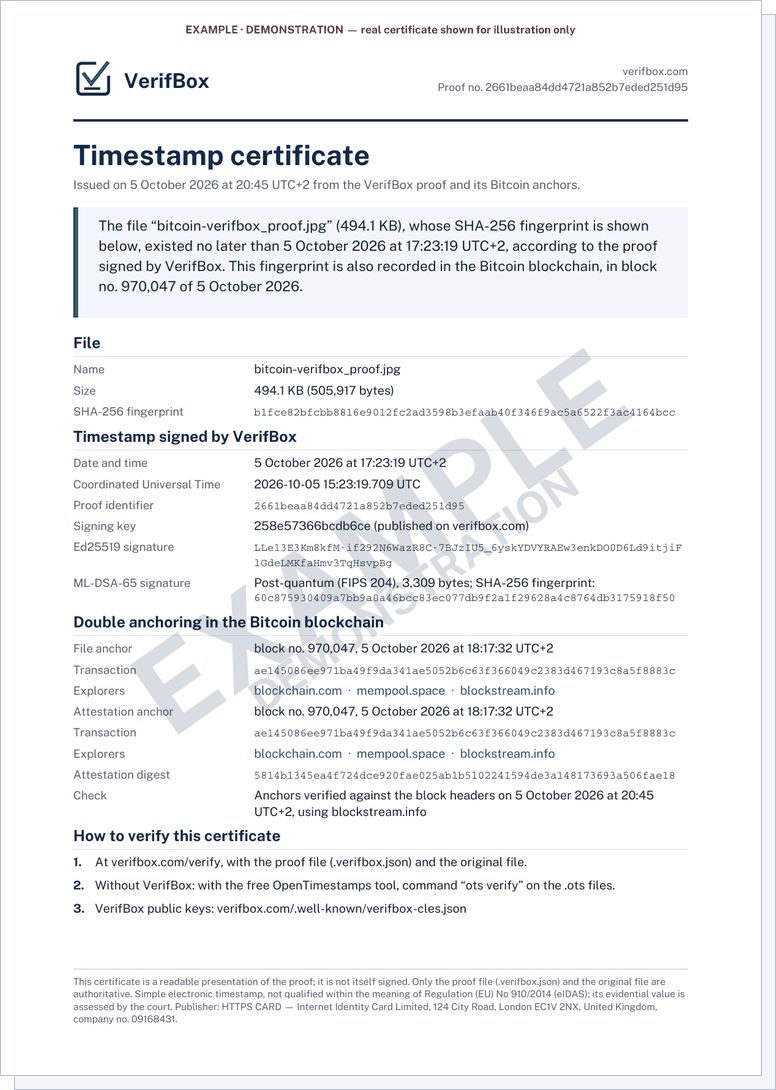
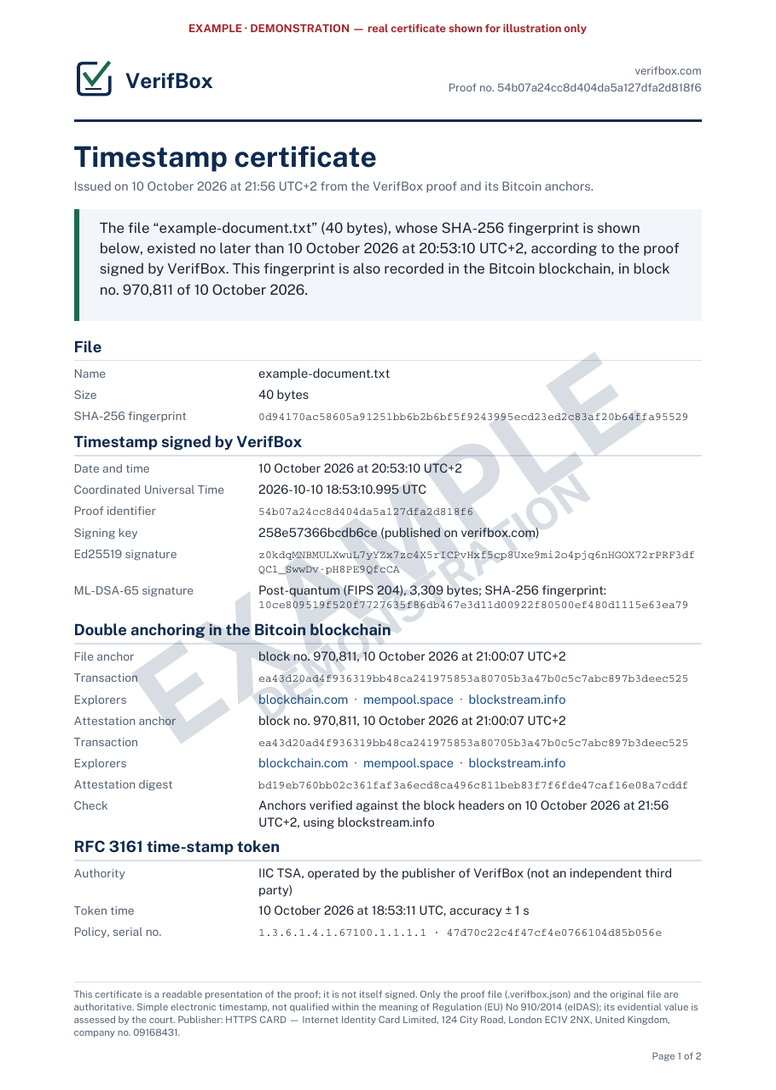
Add files via upload

diff --git a/demo-iic-tsa/README.md b/demo-iic-tsa/README.md
@@ -1,0 +1,51 @@
+# Public demonstration proof with the IIC TSA token
+
+A real VerifBox proof, issued by the production service on 10 October 2026 — the day the IIC TSA time-stamp token went live — with the double Bitcoin anchoring and the RFC 3161 token. This time the original file is published too (`document-exemple.txt`, 40 bytes of plain text), so every check, including the OpenSSL one, can be replayed in full. This proof is the one behind the example certificate shown on verifbox.com.
+
+| Item | Value |
+|---|---|
+| Proof identifier | `54b07a24cc8d404da5a127dfa2d818f6` |
+| Declared time (signed by VerifBox) | 2026-10-10 18:53:10.995 UTC |
+| Signing key | `258e57366bcdb6ce` |
[2 lines of base64/hex data omitted]
+| IIC TSA token | 2026-10-10 18:53:11 UTC, accuracy ± 1 s, policy `1.3.6.1.4.1.67100.1.1.1.1`, serial `47d70c22c4f47cf4e0766104d85b056e` |
+| Bitcoin block of both anchors | 970,811 (2026-10-10 19:00:07 UTC) |
[1 lines of base64/hex data omitted]
+
+IIC TSA is operated by the same company as VerifBox and is not an independent third party; it is not an eIDAS-qualified trust service.
+
+## Files
+
+- `document-exemple.txt`: the original file.
+- `preuve-54b07a24.verifbox.json`: the completed proof, with both anchors and the token.
+- `ancrage-fichier.ots`, `ancrage-attestation.ots`: the two OpenTimestamps anchors.
+- `jeton-iic-tsa.tsr`: the RFC 3161 time-stamp token, extracted from the proof.
+- `iic-tsa-root.pem`: the IIC TSA root certificate (`IIC TSA Root R1`, SHA-256 `86:52:E3:D1:3E:72:5F:7C:75:7C:FA:05:3D:64:13:60:AC:A4:43:CF:6C:09:D7:D6:DD:D4:4B:EA:85:1E:D3:B9`), a copy of the one published at https://verifbox.com/.well-known/iic-tsa.json.
+- `verification.txt`: the output of the independent verifier on this proof and file.
+
+## Replay the verification
+
+**1. Signatures, key, file, anchors and token, with the independent Python verifier:**
+
+```bash
+pip install cryptography dilithium-py
+python3 ../verifbox_verify.py preuve-54b07a24.verifbox.json document-exemple.txt
+```
+
+**2. Both anchors against the Bitcoin blockchain, with the official OpenTimestamps client:**
+
+```bash
+pip install opentimestamps-client
+ots verify -d 0d94170ac58605a91251bb6b2b6bf5f9243995ecd23ed2c83af20b64ffa95529 ancrage-fichier.ots
+ots verify -d bd19eb760bb02c361faf3a6ecd8ca496c811beb83f7f6fde47caf16e08a7cddf ancrage-attestation.ots
+```
+
+**3. The IIC TSA token, with OpenSSL alone:**
+
+```bash
+openssl ts -verify -data document-exemple.txt -in jeton-iic-tsa.tsr -CAfile iic-tsa-root.pem
+openssl ts -reply -in jeton-iic-tsa.tsr -text
+```
+
+The first command must print `Verification: OK`; the second shows the policy, the serial number, the time and the accuracy. Any change to `document-exemple.txt`, even one byte, makes both the proof and the token fail.

diff --git a/README.md b/README.md
@@ -21,7 +21,7 @@ It exists so that anyone can check the VerifBox key file **without trusting veri
 <tr>
 <td width="42%" valign="top">
 <a href="https://verifbox.com/example-certificate-verifbox.pdf"><img src="verifbox-example-certificate.png" alt="Example of a VerifBox timestamp certificate" width="100%"></a>
-<br><sub>Demonstration example based on a real proof, shown with an EXAMPLE watermark.</sub>
+<br><sub>Demonstration example based on a real proof of 10 October 2026, with the IIC TSA token, shown with an EXAMPLE watermark.</sub>
 </td>
 <td valign="top">
 <p>Three files, each with its own role. You keep them: VerifBox keeps no copy.</p>
@@ -33,9 +33,9 @@ It exists so that anyone can check the VerifBox key file **without trusting veri
 </tr>
 </table>
 
-## Public demonstration proof
+## Public demonstration proofs
 
-The [`demo/`](demo/) folder contains a real proof with the double Bitcoin anchoring (proof `2661beaa…`, block 970,047), its two `.ots` files and the commands to replay every check yourself, from the fingerprints alone.
+The [`demo-iic-tsa/`](demo-iic-tsa/) folder contains a real proof of 10 October 2026 with the double Bitcoin anchoring **and the IIC TSA time-stamp token** (proof `54b07a24…`, block 970,811), the original file, the `.ots` and `.tsr` files, the IIC TSA root certificate and the commands to replay every check, OpenSSL included. It is the proof behind the example certificate below. The [`demo/`](demo/) folder keeps an earlier proof of 5 October 2026, without token.
 
 ## Current key
 
